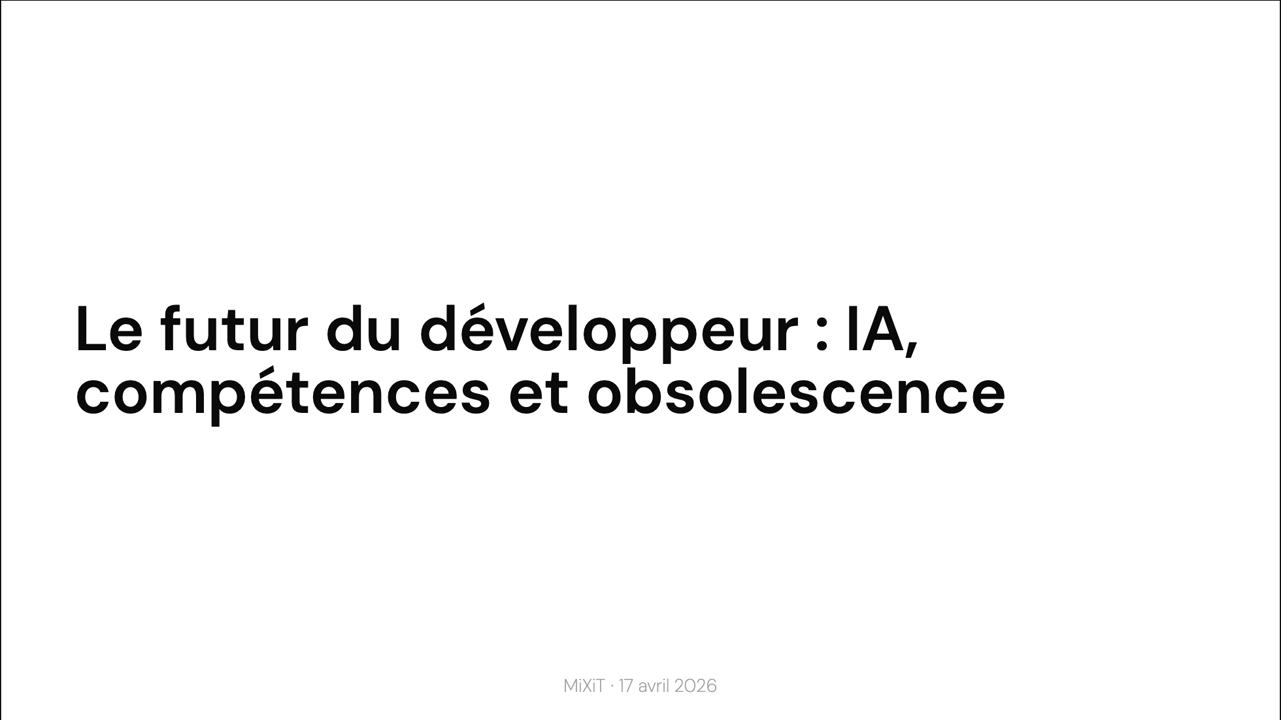
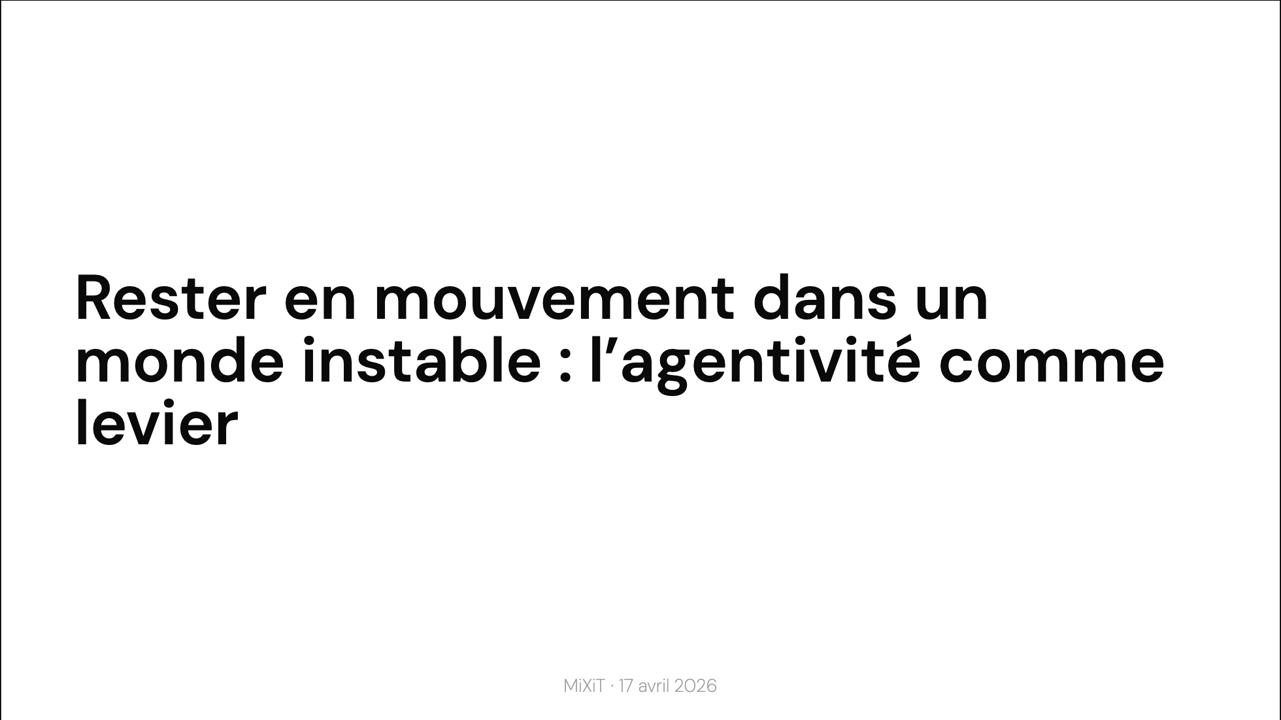
fix: title

Changed region(s): [[0.0625, 0.3667, 0.9055, 0.6417]]

diff --git a/README.md b/README.md
@@ -9,11 +9,11 @@ Slides from my [talks](https://soubiran.dev/talks).
 - `fr` [La réactivité et les signaux : démystifions la magie du frontend](./2026-06-27-1) - Asynconf
 - `fr` [Au cœur d'une pipeline : démystifions Vite et ses plugins](./2026-06-27-2) - Asynconf
 - `fr` [Au cœur d'une pipeline : démystifions Vite et ses plugins](./2026-06-18) - Voxxed Days Luxembourg
-- `fr` [Le futur du développeur : IA, compétences et obsolescence](./2026-06-16) - NCL Days
+- `fr` [Rester en mouvement dans un monde instable : l'agentivité comme levier](./2026-06-16) - NCL Days
 - `fr` [Au cœur d'une pipeline : démystifions Vite et ses plugins](./2026-06-12) - DevLille
 - `fr` [Au cœur d'une pipeline : démystifions Vite et ses plugins](./2026-06-09) - Paris TypeScript
 - `fr` [Au cœur d'une pipeline : démystifions Vite et ses plugins](./2026-04-23) - Devoxx France
-- `fr` [Rester en mouvement dans un monde instable : l'agentivité comme levier](./2026-04-17) - MiXiT
+- `fr` [Le futur du développeur : IA, compétences et obsolescence](./2026-04-17) - MiXiT
 - `fr` [Au cœur d'une pipeline : démystifions Vite et ses plugins](./2026-04-16) - MiXiT
 - `fr` [Au cœur d'une pipeline : démystifions Vite et ses plugins](./2026-04-13) - Takima
 - `fr` [Au cœur d'une pipeline : démystifions Vite et ses plugins](./2026-04-09) - L'Atelier
@@ -63,11 +63,11 @@ Slides from my [talks](https://soubiran.dev/talks).
 2026-06-27 - La réactivité et les signaux : démystifions la magie du frontend - Asynconf - Paris, France
 2026-06-27 - Au cœur d'une pipeline : démystifions Vite et ses plugins - Asynconf - Paris, France
 2026-06-18 - Au cœur d'une pipeline : démystifions Vite et ses plugins - Voxxed Days Luxembourg - Luxembourg, Luxembourg
-2026-06-16 - Le futur du développeur : IA, compétences et obsolescence - NCL Days - Online, Online
+2026-06-16 - Rester en mouvement dans un monde instable : l'agentivité comme levier - NCL Days - Online, Online
 2026-06-12 - Au cœur d'une pipeline : démystifions Vite et ses plugins - DevLille - Lille, France
 2026-06-09 - Au cœur d'une pipeline : démystifions Vite et ses plugins - Paris TypeScript - Paris, France
 2026-04-23 - Au cœur d'une pipeline : démystifions Vite et ses plugins - Devoxx France - Paris, France
-2026-04-17 - Rester en mouvement dans un monde instable : l'agentivité comme levier - MiXiT - Lyon, France
+2026-04-17 - Le futur du développeur : IA, compétences et obsolescence - MiXiT - Lyon, France
 2026-04-16 - Au cœur d'une pipeline : démystifions Vite et ses plugins - MiXiT - Lyon, France
 2026-04-13 - Au cœur d'une pipeline : démystifions Vite et ses plugins - Takima - Paris, France
 2026-04-09 - Au cœur d'une pipeline : démystifions Vite et ses plugins - L'Atelier - Paris, France

diff --git a/2026-04-17/src/slides.md b/2026-04-17/src/slides.md
@@ -11,7 +11,7 @@ themeConfig:
 codeCopy: false
 transition: fade-out
 theme: slidev-theme-personal
-title: "Rester en mouvement dans un monde instable : l'agentivité comme levier"
+title: "Le futur du développeur : IA, compétences et obsolescence"
 titleTemplate: '%s - Estéban Soubiran'
 author: Estéban Soubiran
 keywords: ai,developer,future,skills
@@ -19,4 +19,4 @@ event: NCL Days
 date: 16 juin 2026
 ---
 
-# Rester en mouvement dans un monde instable : l'agentivité comme levier
+# Le futur du développeur : IA, compétences et obsolescence

diff --git a/2026-06-16/src/slides.md b/2026-06-16/src/slides.md
@@ -11,7 +11,7 @@ themeConfig:
 codeCopy: false
 transition: fade-out
 theme: slidev-theme-personal
-title: "Le futur du développeur : IA, compétences et obsolescence"
+title: "Rester en mouvement dans un monde instable : l'agentivité comme levier"
 titleTemplate: '%s - Estéban Soubiran'
 author: Estéban Soubiran
 keywords: ai,developer,future,skills
@@ -19,4 +19,4 @@ event: MiXiT
 date: 17 avril 2026
 ---
 
-# Le futur du développeur : IA, compétences et obsolescence
+# Rester en mouvement dans un monde instable : l'agentivité comme levier

diff --git a/2026-06-16/README.md b/2026-06-16/README.md
@@ -1,3 +1,3 @@
-# Le futur du développeur : IA, compétences et obsolescence
+# Rester en mouvement dans un monde instable : l'agentivité comme levier
 
 2026/06/16 - [NCL Days](https://www.ncldays.fr/)

diff --git a/2026-04-17/README.md b/2026-04-17/README.md
@@ -1,3 +1,3 @@
-# Rester en mouvement dans un monde instable : l'agentivité comme levier
+# Le futur du développeur : IA, compétences et obsolescence
 
 2026/04/17 - [MiXiT](https://mixitconf.org/)
